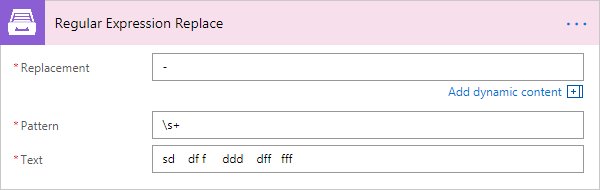
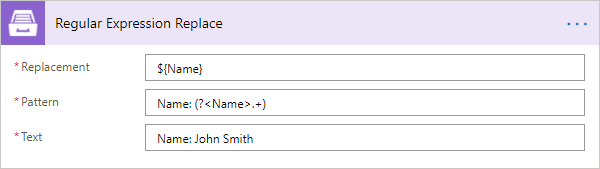
Backreference in RegExp replacement

diff --git a/source/flow/actions/document-processing.rst b/source/flow/actions/document-processing.rst
@@ -1829,7 +1829,7 @@ In a specified input string, replaces all strings that match a regular expressio
        -  Example
     *  -  Result
        -  Result string with replaced substrings that match a regular expression pattern.
-       -  ``sd-df-f-ddd-dff-fff``
+       -  ``John Smith``
 
 .. rubric:: Input Parameters
 
@@ -1843,15 +1843,15 @@ In a specified input string, replaces all strings that match a regular expressio
     *  -  Pattern
        -  Regular expression pattern. This pattern can contain inline options to modify behavior of the regular expression. Such options have to be placed in the beginning of the expression inside brackets with question mark: ``(?YOUR_OPTIONS)``. For example options ``(?mi)`` will allow to process multi line text with case insensitivity.   
           You can find additional information about inline options in the `MSDN article <http://msdn.microsoft.com/en-us/library/yd1hzczs%28v=vs.110%29.aspx>`_.     
-       -  ``\s+``
+       -  ``Name: (?<Name>.+)``
 
     *  -  Text
        -  String to search for matches.
-       -  ``sd    df f     ddd    dff   fff``   
+       -  ``Name: John Smith``   
 
     *  -  Replacement
-       -  Replacement string.
-       -  ``-`` 
+       -  Replacement string or `backreference <https://docs.microsoft.com/en-us/dotnet/standard/base-types/backreference-constructs-in-regular-expressions>`_. The name or number of a captured group should be put between braces in ``${}``.
+       -  ``${Name}`` 
 
 .. rubric:: Example
 
